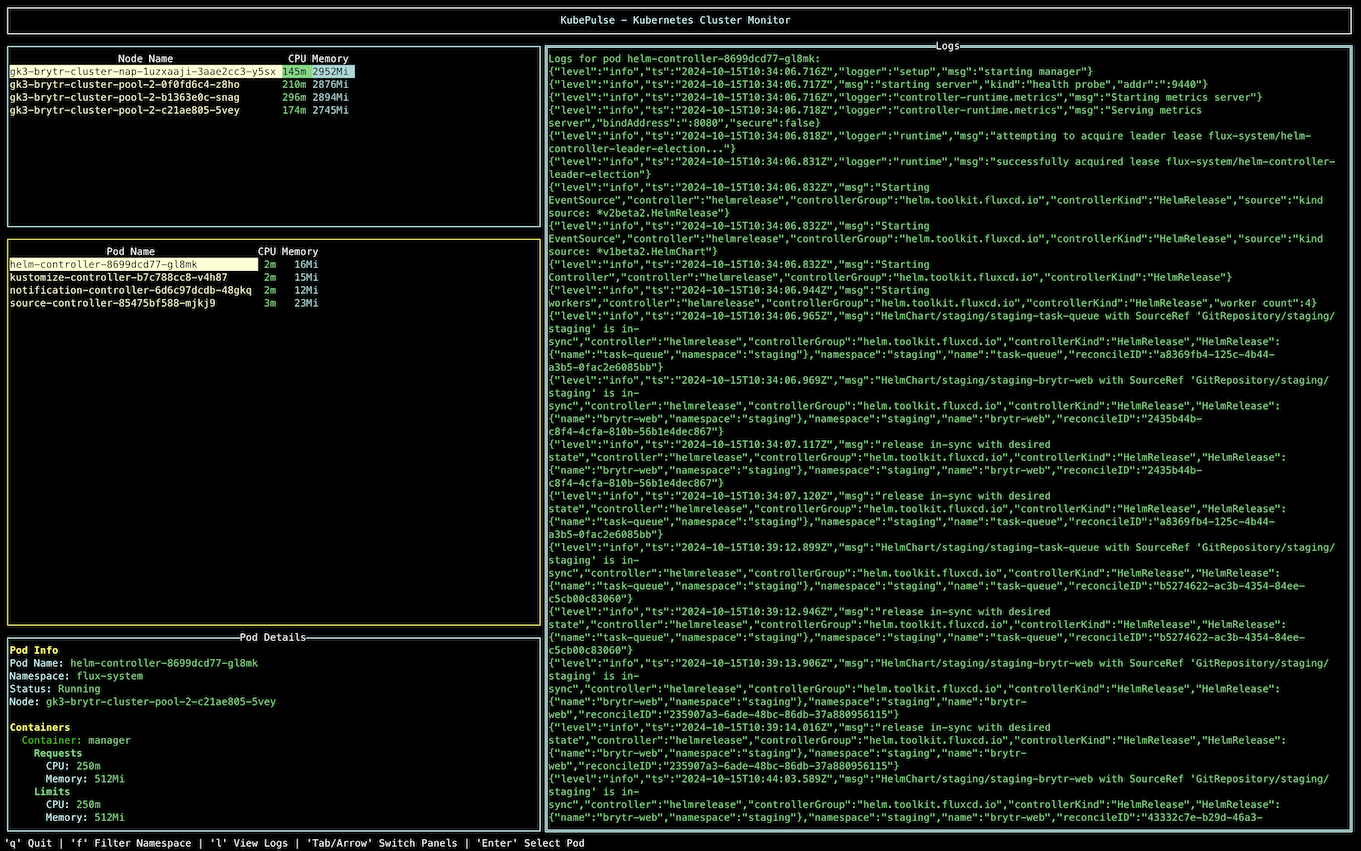
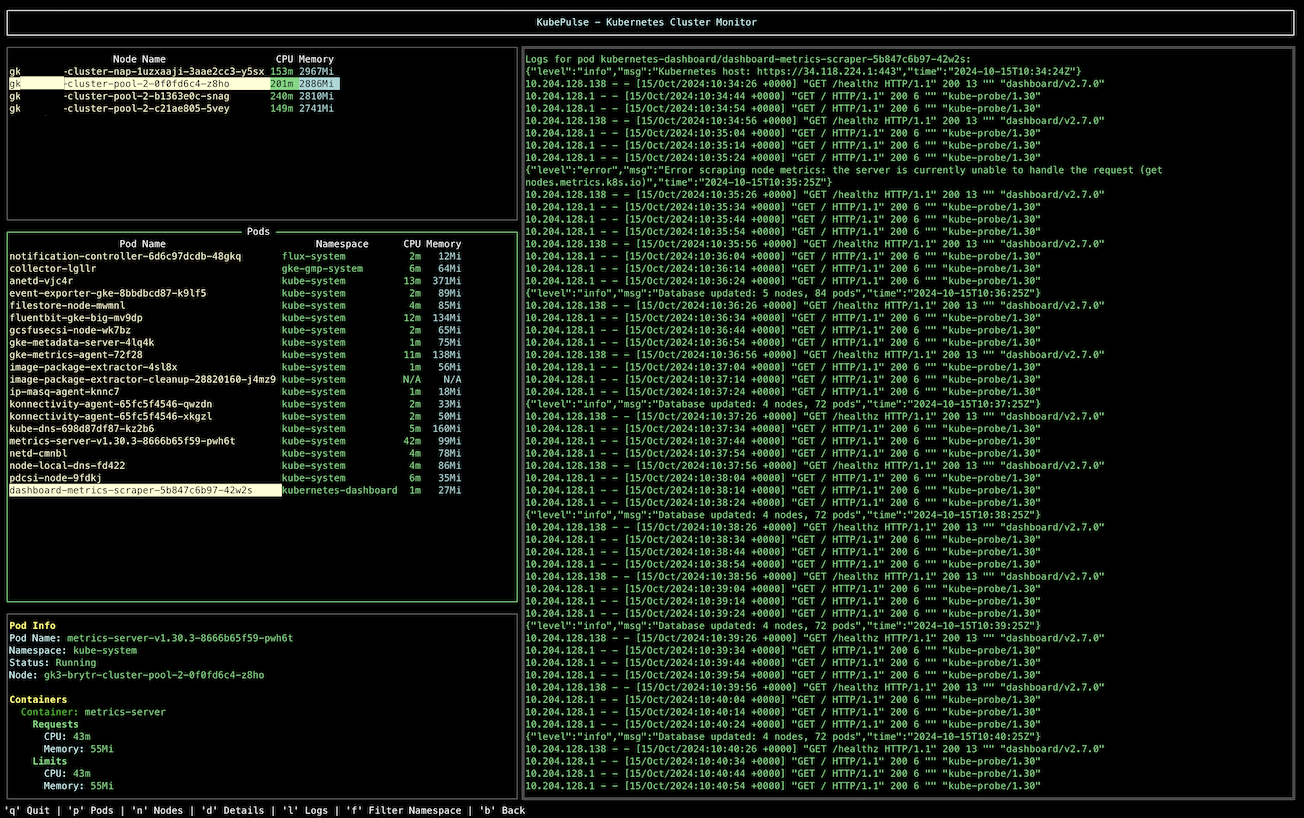
chore: update README.md

Changed region(s): [[0.0, 0.0, 1.0, 1.0]]

diff --git a/README.md b/README.md
@@ -11,17 +11,20 @@ KubePulse is a terminal-based user interface (TUI) for monitoring Kubernetes clu
 
 ## Features
 
-- 🌟 **View Pods**: List all pods running in a selected namespace.
-- 📜 **View Logs**: Inspect logs for any selected pod.
-- 🔄 **Filter by Namespace**: Quickly switch between namespaces to monitor different sets of pods.
-- 📊 **Resource Monitoring**: View CPU and memory usage for each pod.
-- 🧭 **Interactive Navigation**: Navigate between panels, select pods, and switch namespaces seamlessly.
+- 🌟 View Pods: List all pods running in a selected namespace with detailed resource usage.
+- 🌐 View Nodes: Display all nodes in the cluster along with their CPU and memory metrics.
+- 📜 View Logs: Inspect logs for any selected pod.
+- 🔄 Filter by Namespace: Quickly switch between namespaces to monitor different sets of pods.
+- 📊 Resource Monitoring: View CPU and memory usage for each pod and node.
+- 🧭 Interactive Navigation: Navigate between panels, select pods or nodes, and switch namespaces seamlessly using keyboard shortcuts.
+- ⏲ Real-Time Updates: Automatically refresh pod and node data every 10 seconds to ensure real-time monitoring.
+- 🛠 Enhanced Logging and Error Handling: Robust logging mechanisms for improved debugging and user feedback.
 
 ## Prerequisites
 
 - **Kubernetes Cluster Access**: You need access to a Kubernetes cluster.
 - **Kubeconfig**: Make sure your `KUBECONFIG` environment variable is set or that the default kubeconfig file (`~/.kube/config`) is available.
-- **Go**: Requires Go 1.18 or higher to build from source.
+- **Go**: Requires Go 1.23.1 or higher to build from source.
 
 ## Installation
 
@@ -52,20 +55,22 @@ To start KubePulse:
 
 KubePulse provides an intuitive TUI to interact with your Kubernetes cluster. Below are the main commands and key bindings:
 
-- **Start the CLI**: Run `./kubepulse` to start.
-- **Navigate Panels**: Use `[Tab]` or `[Arrow Keys]` to switch between panels.
-- **Select Pod**: Press `[Enter]` to select a pod and view its details.
-- **View Logs**: Press `[l]` to view logs for the selected pod.
-- **Filter by Namespace**: Press `[f]` to open a dropdown and select a namespace.
-- **Back**: Press `[b]` to navigate back to the previous panel.
-- **Quit**: Press `[q]` to exit the application.
+- **Start the CLI:** Run ./kubepulse to start.
+- **Navigate Panels:** Use [p] to focus on the Pods panel, [n] to focus on the Nodes panel, [d] to view Details, and [l] to view Logs.
+- **Select Pod or Node:** Press [Enter] to select a pod or node and view its details.
+- **View Logs:** Press [l] to view logs for the selected pod.
+- **Filter by Namespace:** Press [f] to open a dropdown and select a namespace.
+- **Back:** Press [b] to navigate back to the previous panel.
+- **Quit:** Press [q] to exit the application.
 
 ## Example Workflow
 
 1. **Start KubePulse**: After building the binary, run it with:
+
    ```sh
    ./kubepulse
    ```
+
 2. **Select Namespace**: Press `[f]` to filter by namespace and select the desired one.
 3. **Navigate Pods**: Use `[Tab]` or `[Arrow Keys]` to move to the pod list panel.
 4. **View Pod Logs**: Select a pod and press `[l]` to view its logs.
@@ -73,17 +78,21 @@ KubePulse provides an intuitive TUI to interact with your Kubernetes cluster. Be
 ## Key Bindings
 
 - `[q]` - Quit the application
-- `[Tab/Arrow Keys]` - Switch between panels
-- `[Enter]` - Select a pod
-- `[l]` - View logs of the selected pod
-- `[f]` - Filter pods by namespace
-- `[b]` - Go back to the previous panel
+- `[p]` - Pods panel
+- `[n]` - Nodes panel
+- `[d]` - Details panel
+- `[l]` - Logs panel
+- `[f]` - Filter Namespace
+- `[b]` - Back to previous panel
+- `[Enter]` - Select a pod or node
 
 ## Troubleshooting
 
-- **No Pods Visible**: Ensure that you have the correct namespace selected, and that you have access to the cluster. You can use `[f]` to change the namespace.
-- **Connection Issues**: Make sure your kubeconfig file is correctly set up and that you have proper access rights to the Kubernetes cluster.
-- **Build Errors**: Ensure you have Go 1.18 or higher installed. Run `go version` to check your Go version.
+- **No Nodes Visible:** Verify cluster access and that nodes are present in the selected namespace.
+- **No Pods Visible:** Ensure that you have the correct namespace selected, and that you have access to the cluster. You can use `[f]` to change the namespace.
+- **Connection Issues:** Make sure your kubeconfig file is correctly set up and that you have proper access rights to the Kubernetes cluster.
+- **Build Errors:** Ensure you have Go 1.18 or higher installed. Run `go version` to check your Go version.
+- **Logs Not Displaying:** Ensure the selected pod has logs available and that you have the necessary permissions to access them.
 
 ## License
 
@@ -95,4 +104,4 @@ For any questions or issues, feel free to reach out via [GitHub Issues](https://
 
 ---
 
-We hope KubePulse makes your Kubernetes monitoring easier and more intuitive. Contributions are welcome—feel free to fork the repository and submit pull requests!
+P.S. I hope KubePulse makes your Kubernetes monitoring easier and more intuitive. Contributions are welcome—feel free to fork the repository and submit pull requests!
